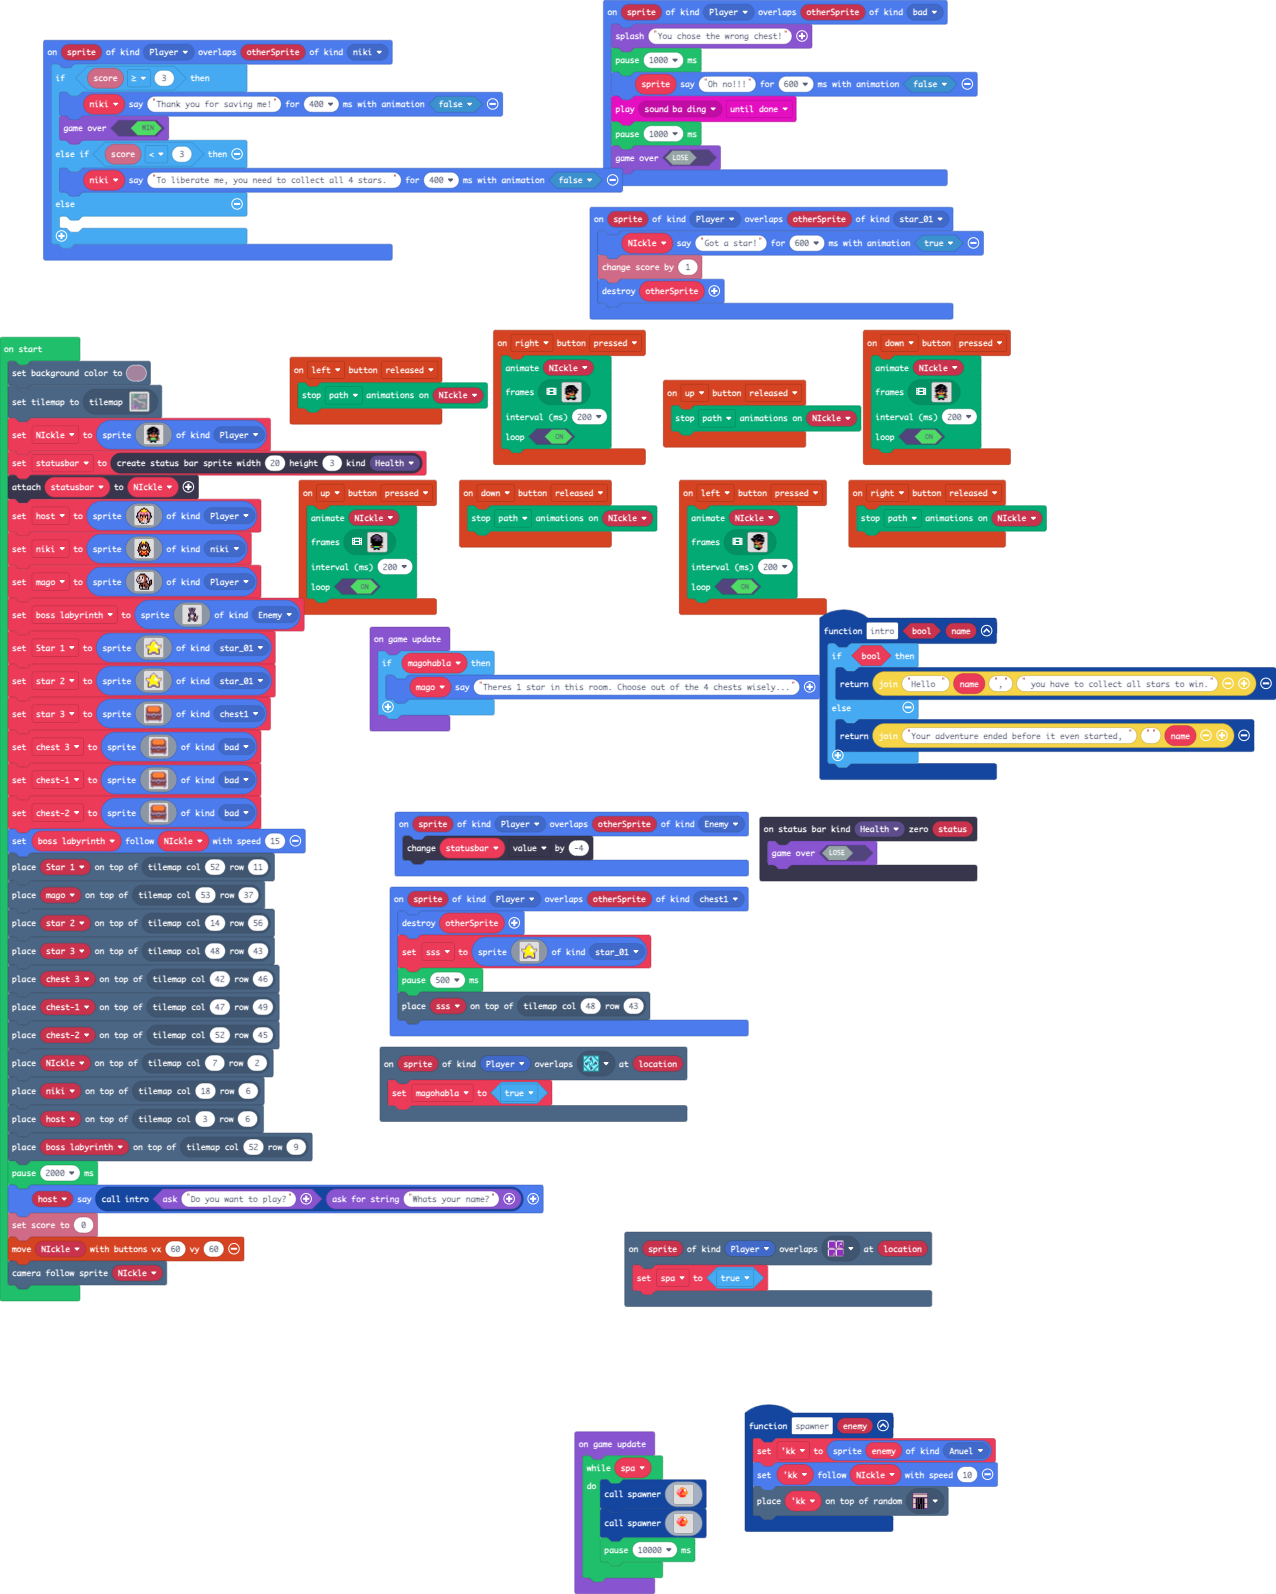
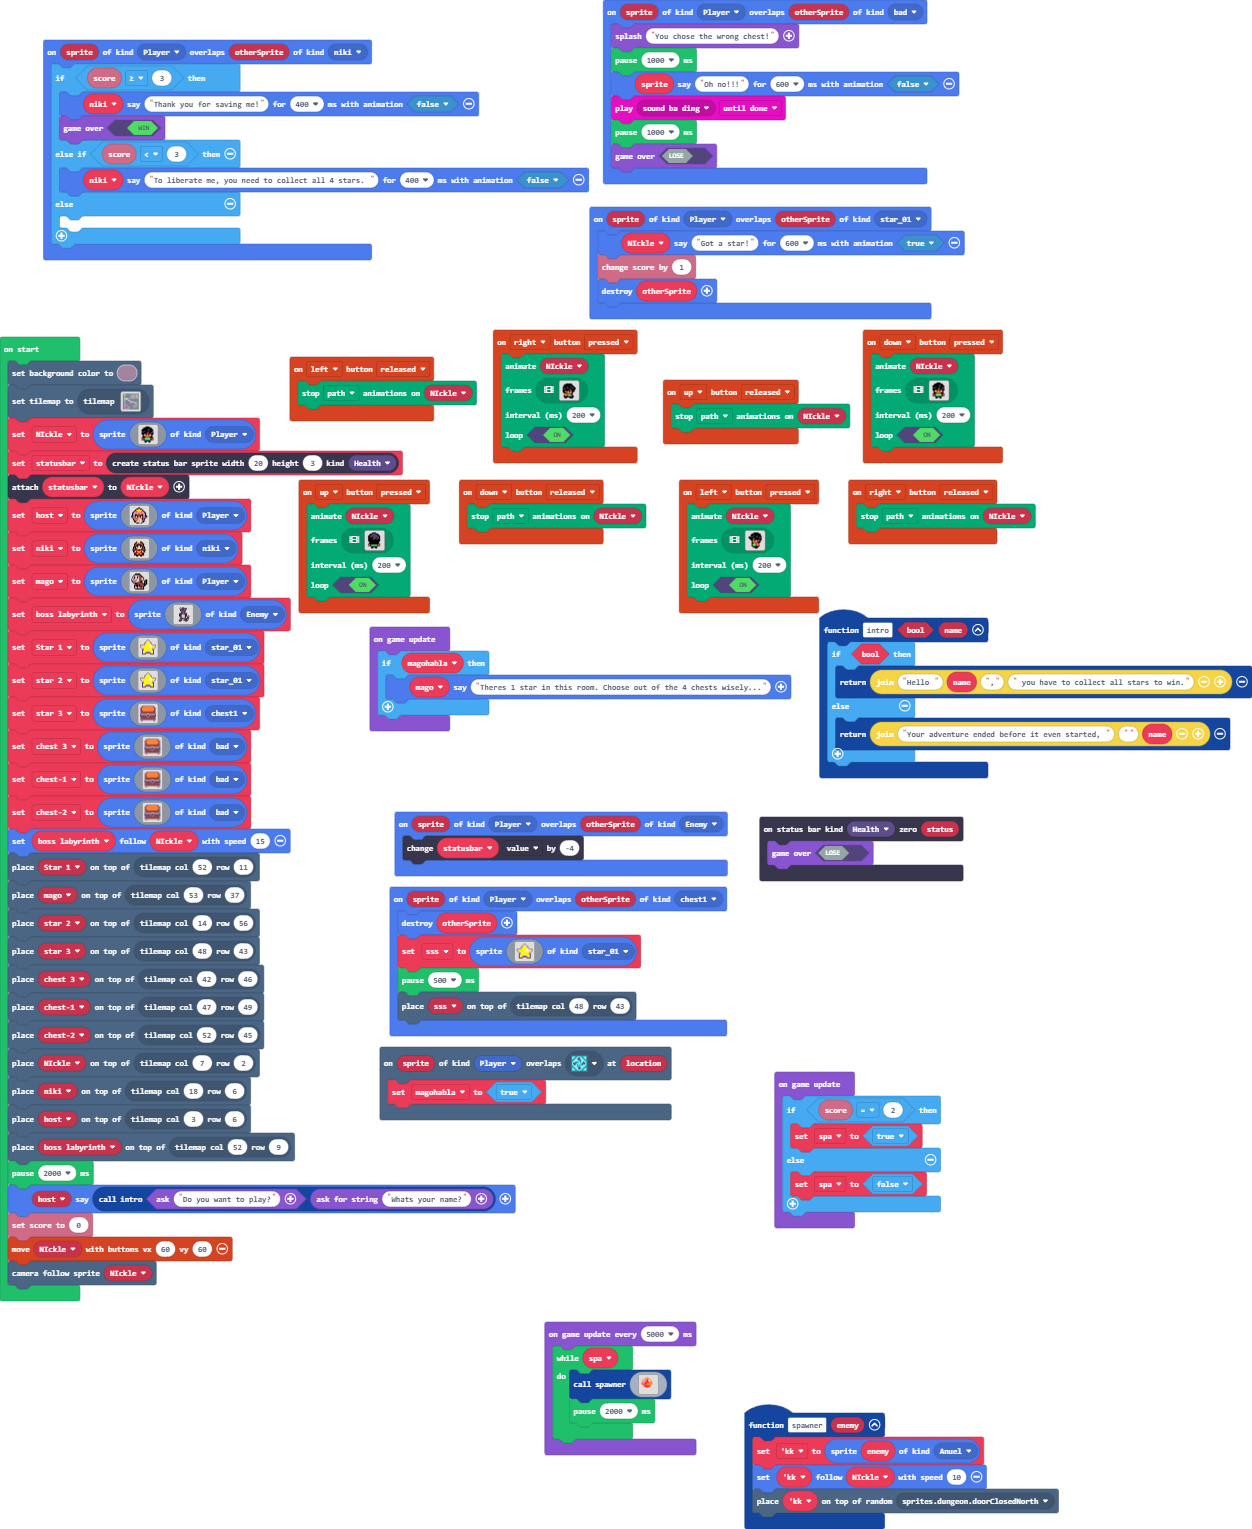
Update main.blocks, main.ts, tilemap.g.jres, tilemap.g.ts

diff --git a/tilemap.g.ts b/tilemap.g.ts
@@ -191,7 +191,7 @@ namespace myTiles {
 . . . . . . . . . . . . . . . . 
 `, [myTiles.transparency16], TileScale.Sixteen);
             case "level0":
[2 lines of base64/hex data omitted]
 222222222222222222222222222222222222222222222222222222222222
 2............22222222222222222222222222222222222222222222222
 2............2222222222222222222222222222222222..........222
@@ -227,22 +227,22 @@ namespace myTiles {
 22222.......22222222222................................22222
 22222.......22222222222................................22222
 22222........2222222222222.............................22222
-22222........2222222222222222222.......................22222
-22222........22222222222222222222222222222222...........2222
-22222.........2222222222222222222222222222222...........2222
-2222...........222222222222222222222222222222...........2222
-2222............22222222222222222222222222222...........2222
-2222.............222222222222222222222222222............2222
-222...............2222222222222222222222222..............222
-222................222222222222222222222.................222
-222...............2222222222222222222....................222
-222...........2222222222222222222222.....................222
-222...........2222222222222222222222.....................222
-222..........22222222222222222222222.....................222
-222.......22222222222.....2222222222.....................222
-222.......22222222222......222222222.....................222
-222.......2222222222.......2222222222....................222
-222.......222222222........2222222222...................2222
+22222........22222222222222............................22222
+22222........22222222222222.....2222222222222...........2222
+22222.........2222222222222.....2222222222222...........2222
+2222...........222222222222.....2222222222222...........2222
+2222............22222222222.....2222222222222...........2222
+2222.............2222222222.....222222222222............2222
+222...............22222222......22222222222..............222
+222................2222222.....222222222.................222
+222.................22222......222222....................222
+222..................2222.....222222.....................222
+222...................22......222222.....................222
+222..........................2222222.....................222
+222.......22222.............22222222.....................222
+222.......222222............22222222.....................222
+222.......2222222..........2222222222....................222
+222.......22222222.........2222222222...................2222
 222.......22222222..........222222222..................22222
 222........2222222..........222222222.................222222
 222.........222222..........22222222222..............2222222
@@ -252,7 +252,7 @@ namespace myTiles {
 222........................222222222222222222222222222222222
 2222.......................222222222222222222222222222222222
 22222....................22222222222222222222222222222222222
-`, [myTiles.transparency16,sprites.castle.tileGrass2,sprites.dungeon.greenOuterNorth0,sprites.dungeon.darkGroundNorthWest0,sprites.dungeon.darkGroundWest,sprites.dungeon.darkGroundSouthWest0,sprites.dungeon.darkGroundNorth,sprites.castle.tileGrass1,sprites.castle.tileDarkGrass3,sprites.dungeon.darkGroundSouth,sprites.dungeon.darkGroundCenter,sprites.dungeon.darkGroundNorthWest1,sprites.dungeon.floorDark4,sprites.dungeon.stairNorth,sprites.dungeon.floorLightMoss,myTiles.tile2,myTiles.tile3,sprites.dungeon.darkGroundEast,sprites.dungeon.darkGroundNorthEast1,sprites.dungeon.greenOuterNorth1,sprites.swamp.swampTile6,sprites.swamp.swampTile9,sprites.swamp.swampTile12,sprites.swamp.swampTile7,sprites.dungeon.darkGroundNorthEast0,sprites.dungeon.darkGroundSouthEast0,sprites.swamp.swampTile13,sprites.dungeon.floorLight3,sprites.swamp.swampTile14,myTiles.tile4,sprites.dungeon.floorLight4,myTiles.tile5,sprites.dungeon.floorLight1,sprites.dungeon.floorDark0,sprites.dungeon.floorMixed,sprites.dungeon.collectibleInsignia,sprites.dungeon.purpleOuterNorth1,sprites.builtin.coral5,sprites.dungeon.doorClosedNorth], TileScale.Sixteen);
+`, [myTiles.transparency16,sprites.castle.tileGrass2,sprites.dungeon.greenOuterNorth0,sprites.dungeon.darkGroundNorthWest0,sprites.dungeon.darkGroundWest,sprites.dungeon.darkGroundSouthWest0,sprites.dungeon.darkGroundNorth,sprites.castle.tileGrass1,sprites.castle.tileDarkGrass3,sprites.dungeon.darkGroundSouth,sprites.dungeon.darkGroundCenter,sprites.dungeon.darkGroundNorthWest1,sprites.dungeon.floorDark4,sprites.dungeon.stairNorth,sprites.dungeon.floorLightMoss,myTiles.tile2,myTiles.tile3,sprites.dungeon.darkGroundEast,sprites.dungeon.darkGroundNorthEast1,sprites.dungeon.greenOuterNorth1,sprites.swamp.swampTile6,sprites.swamp.swampTile9,sprites.swamp.swampTile12,sprites.swamp.swampTile7,sprites.dungeon.darkGroundNorthEast0,sprites.dungeon.darkGroundSouthEast0,sprites.swamp.swampTile13,sprites.swamp.swampTile8,sprites.dungeon.floorLight3,sprites.swamp.swampTile14,myTiles.tile4,sprites.dungeon.floorLight4,myTiles.tile5,sprites.dungeon.floorLight1,sprites.dungeon.floorDark0,sprites.dungeon.floorMixed,sprites.dungeon.collectibleInsignia,sprites.dungeon.purpleOuterNorth1], TileScale.Sixteen);
         }
         return null;
     })

diff --git a/main.ts b/main.ts
@@ -6,6 +6,7 @@ namespace SpriteKind {
     export const bad = SpriteKind.create()
     export const spawn = SpriteKind.create()
     export const Anuel = SpriteKind.create()
+    export const wall_condition = SpriteKind.create()
 }
 controller.up.onEvent(ControllerButtonEvent.Pressed, function () {
     animation.runImageAnimation(
@@ -134,9 +135,6 @@ controller.left.onEvent(ControllerButtonEvent.Pressed, function () {
     200,
     true
     )
-})
-scene.onOverlapTile(SpriteKind.Player, assets.tile`tile3`, function (sprite, location) {
-    spa = true
 })
 sprites.onOverlap(SpriteKind.Player, SpriteKind.niki, function (sprite, otherSprite) {
     if (info.score() >= 3) {
@@ -325,10 +323,10 @@ scene.onOverlapTile(SpriteKind.Player, sprites.dungeon.collectibleInsignia, func
 sprites.onOverlap(SpriteKind.Player, SpriteKind.Enemy, function (sprite, otherSprite) {
     statusbar.value += -4
 })
+let spa = false
 let magohabla = false
 let kk: Sprite = null
 let sss: Sprite = null
-let spa = false
 let niki: Sprite = null
 let statusbar: StatusBarSprite = null
 let NIckle: Sprite = null
@@ -573,6 +571,13 @@ game.onUpdate(function () {
     }
 })
 game.onUpdate(function () {
+    if (info.score() == 2) {
+        spa = true
+    } else {
+        spa = false
+    }
+})
+game.onUpdateInterval(5000, function () {
     while (spa) {
         spawner(img`
             . . . . . . . . . . . . . . . . 
@@ -592,24 +597,6 @@ game.onUpdate(function () {
             . . . . . . . . . . . . . . . . 
             . . . . . . . . . . . . . . . . 
             `)
-        spawner(img`
-            . . . . . . . . . . . . . . . . 
-            . . . . . 4 4 4 . . . . . . . . 
-            . . . . 4 4 5 4 4 4 . . . . . . 
-            . . 4 3 3 3 2 2 1 1 4 . . . . . 
-            . . 3 3 3 3 2 2 1 1 4 . . . . . 
-            . 4 3 3 3 2 2 2 2 5 4 4 . . . . 
-            . 4 4 3 2 2 4 4 4 4 4 4 . . . . 
-            . 4 2 3 2 2 4 4 4 4 4 4 . . . . 
-            . . 4 2 3 2 4 4 4 4 4 . . . . . 
-            . . . 4 2 2 2 2 2 2 . . . . . . 
-            . . . . 4 2 2 2 4 4 . . . . . . 
-            . . . . . . . . . . . . . . . . 
-            . . . . . . . . . . . . . . . . 
-            . . . . . . . . . . . . . . . . 
-            . . . . . . . . . . . . . . . . 
-            . . . . . . . . . . . . . . . . 
-            `)
-        pause(10000)
+        pause(2000)
     }
 })
